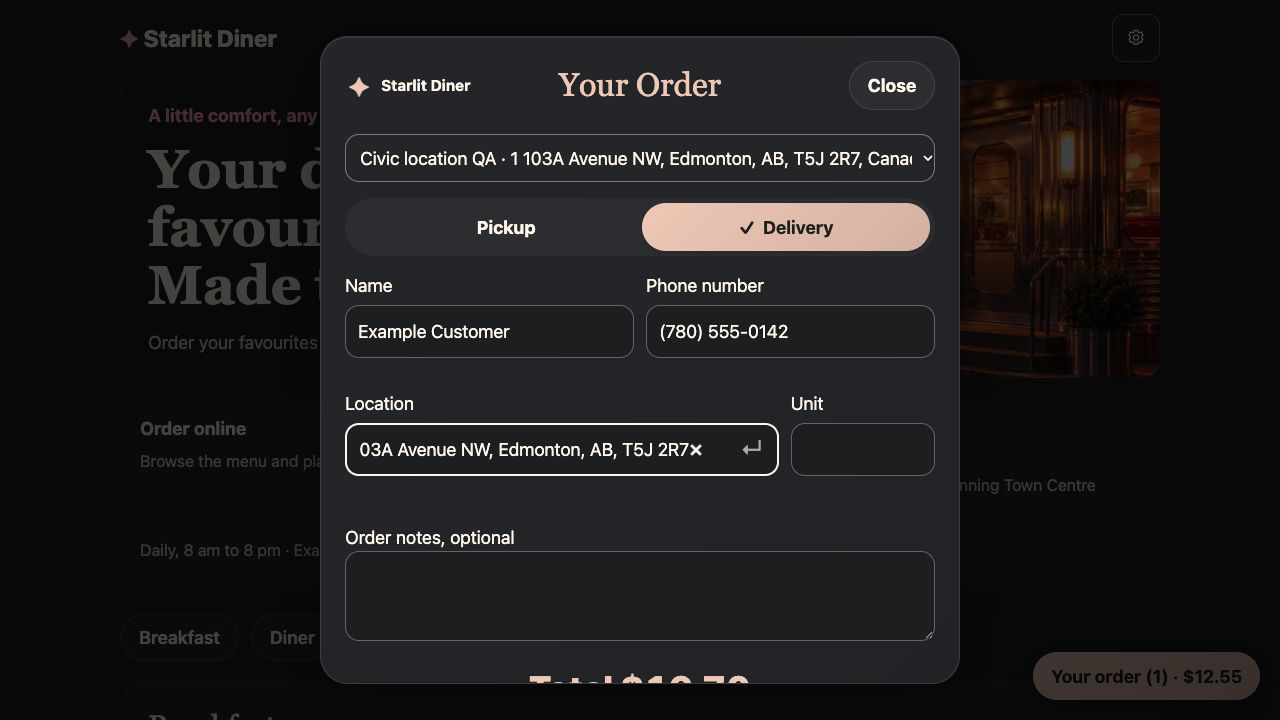
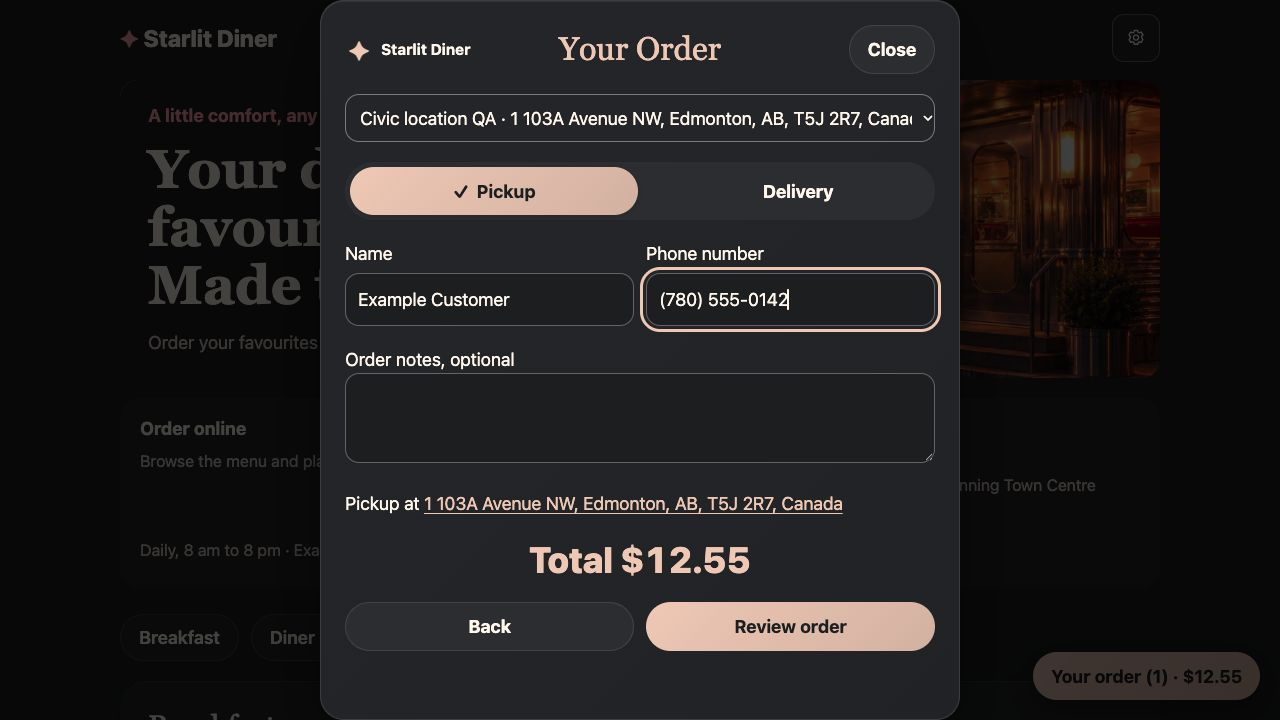
Prepare 0.11.1 with refreshed ordering screenshots

diff --git a/README.md b/README.md
@@ -2,7 +2,7 @@
 
 **Do You Want Something?** A reusable ordering and delivery system for a business’s own website.
 
-**Release: [0.11.0](VERSION)** · [Optional install ZIP](https://github.com/Starlit-Digital/dyws/releases) · [Release notes](CHANGELOG.md) · [Installation guide](INSTALL.md) · [Hosted diner example](https://sltd.ca/diner-demo/)
+**Release: [0.11.1](VERSION)** · [Optional install ZIP](https://github.com/Starlit-Digital/dyws/releases) · [Release notes](CHANGELOG.md) · [Installation guide](INSTALL.md) · [Hosted diner example](https://sltd.ca/diner-demo/)
 
 The customer orders on your website, the business manages the order, and an assigned driver handles the delivery. Starlit Diner is the fictional restaurant example. The catalog also supports general products and services sold in whole units.
 
@@ -14,7 +14,7 @@ This is a development preview. Orders and delivery workflows work against persis
 
 ## Current checkout
 
-Checkout uses one Location field with address autocomplete, an optional Unit field and phone formatting while typing. Selected addresses include city, province and postal code. The review uses two line addresses and an inline countdown between Back and Looks good!. Click the countdown to pause or resume from the remaining seconds. Leaving the page pauses it until deliberately resumed. Canadian locality names are cached from the Statistics Canada National Address Register.
+Checkout uses one Location field with address autocomplete, an optional Unit field and phone formatting while typing. Selected addresses include city, province and postal code. The review uses two line addresses and an inline countdown between Back and Looks good!. Click the countdown to pause or resume from the remaining seconds. The control shows a play symbol while paused. Customer details stay in page memory across Back navigation and dialog close and reopen, until the order completes or the page reloads. All stages share divider free spacing and the available viewport height. Leaving the page pauses it until deliberately resumed. Canadian locality names are cached from the Statistics Canada National Address Register.
 
 ![Current order review](docs/screenshots/review-layout-20261024/paused-review.png)
 

diff --git a/CHANGELOG.md b/CHANGELOG.md
@@ -1,5 +1,10 @@
 # Changelog
 
+## 0.11.1 · 2026-10-24
+
+- Preserve checkout details in memory across Back navigation and dialog close and reopen.
+- Show a play icon while paused, simplify Back labels, align delivery fields and unify divider free spacing across full height ordering stages.
+
 ## 0.11.0 · 2026-10-24
 
 - Add a compact single address checkout, cached Canadian locality names, two line review addresses and an inline countdown that toggles pause and resume.
